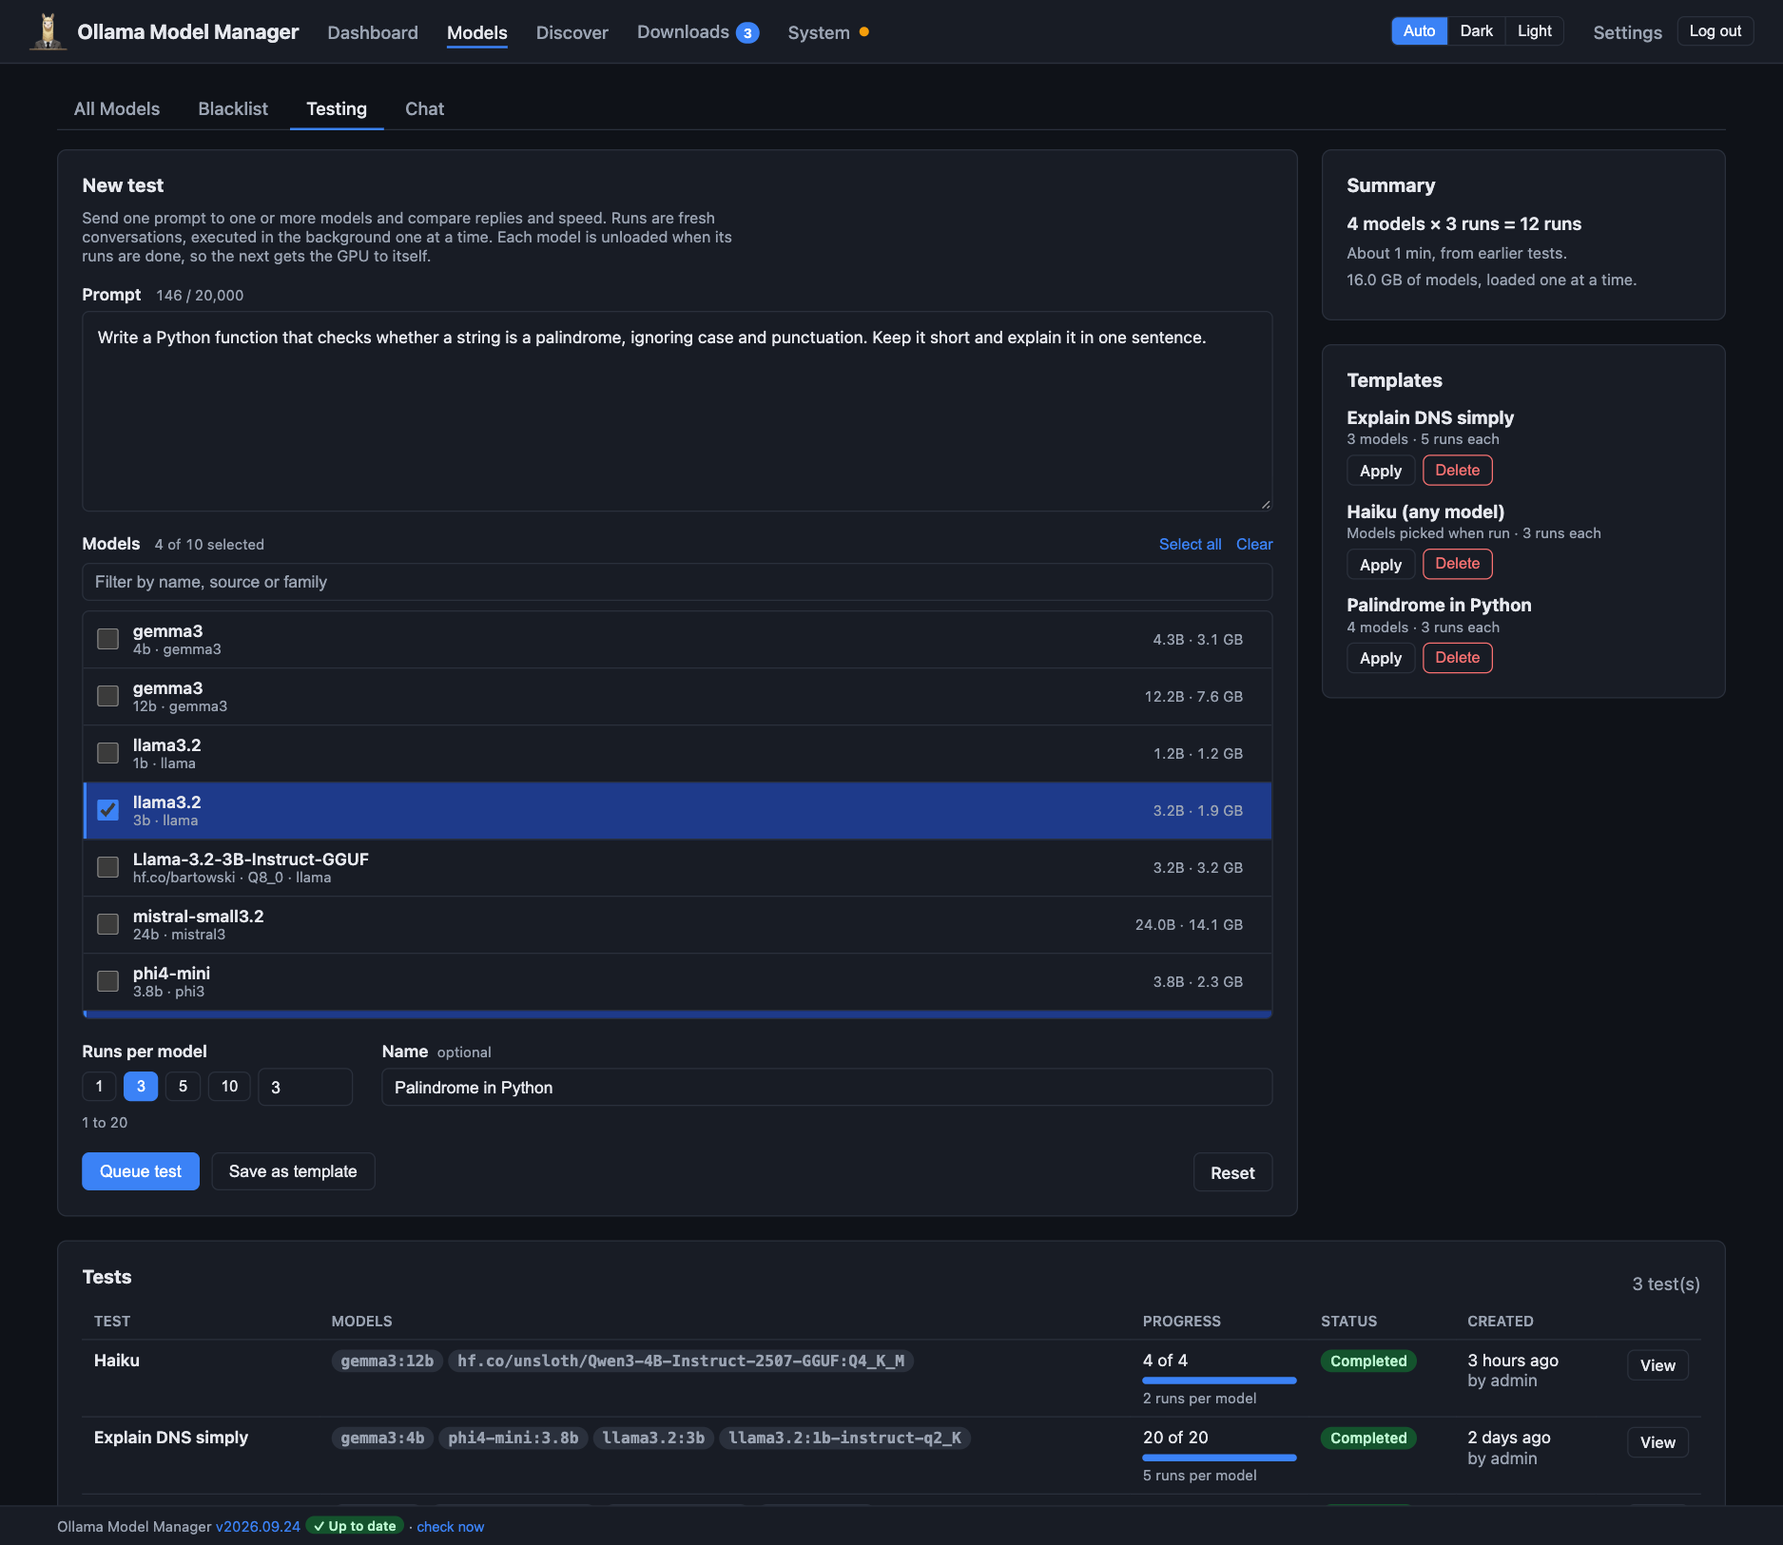
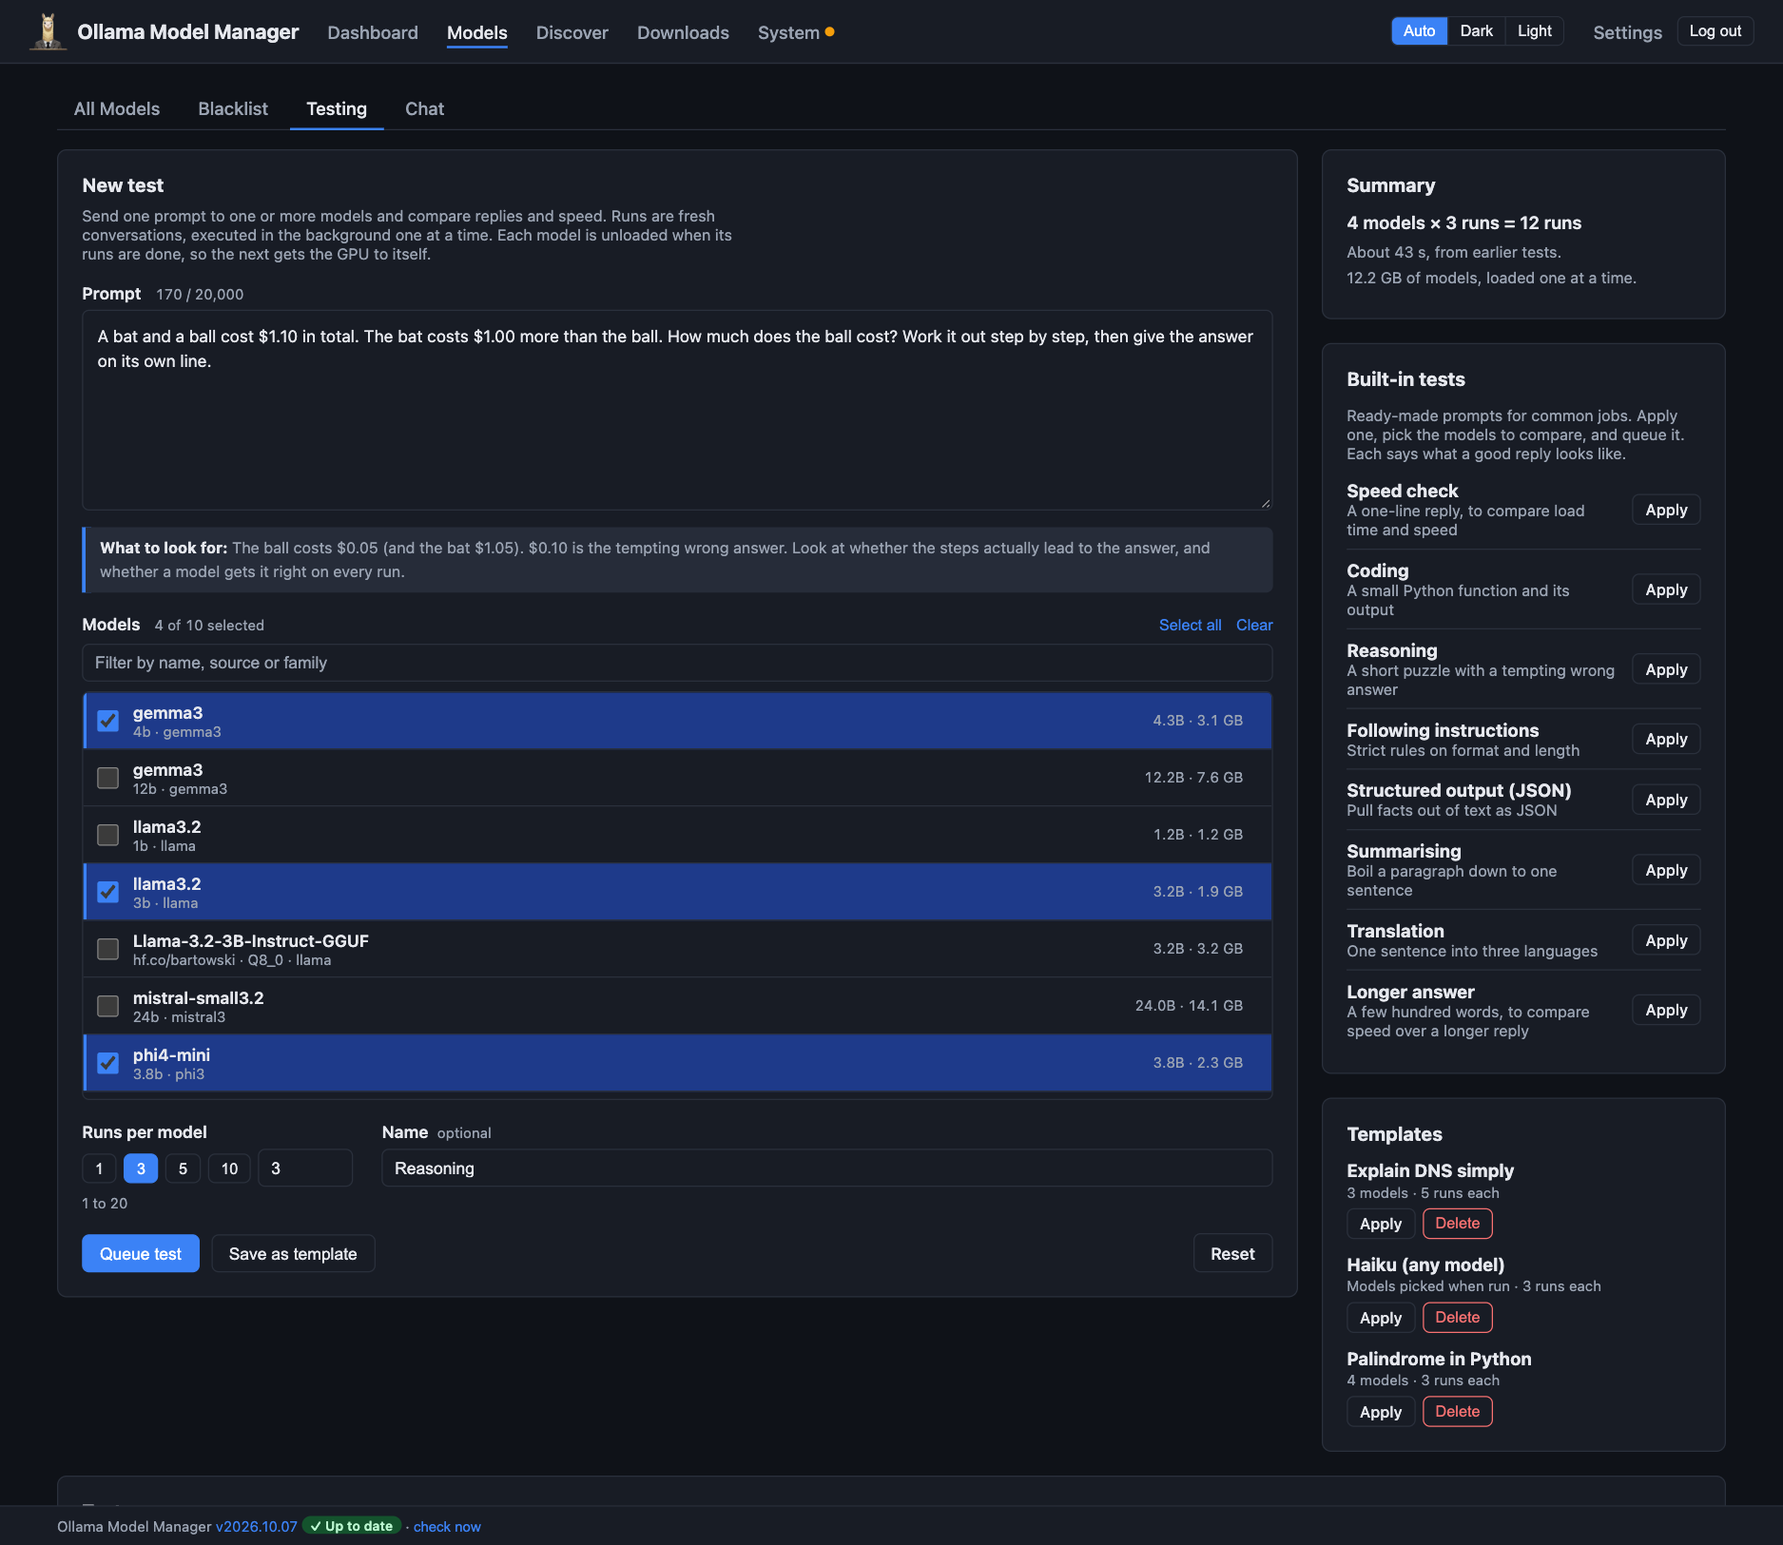
added basic built in tests to model testing that cover a number of common LLM use cases

diff --git a/internal/web/templates/tests.html b/internal/web/templates/tests.html
@@ -37,6 +37,7 @@
             <span class="muted tnum" data-prompt-count aria-live="polite">{{len .Form.Prompt}} / {{count .MaxPrompt}}</span>
           </div>
           <textarea id="t-prompt" name="prompt" rows="7" maxlength="{{.MaxPrompt}}" required placeholder="e.g. Write a Python function that checks whether a string is a palindrome.">{{.Form.Prompt}}</textarea>
+          {{with .LookFor}}<p class="test-lookfor"><strong>What to look for:</strong> {{.LookFor}}</p>{{end}}
         </div>
 
         <fieldset class="test-models" aria-labelledby="models-label">
@@ -103,6 +104,18 @@
         <ul class="test-sum-warn" data-sum-warn></ul>
       </div>
       {{end}}
+      <div class="panel">
+        <h2>Built-in tests</h2>
+        <p class="muted test-builtin-intro">Ready-made prompts for common jobs. Apply one, pick the models to compare, and queue it. Each says what a good reply looks like.</p>
+        <ul class="test-builtins">
+          {{range .Builtins}}
+          <li>
+            <div><strong class="test-tpl-name">{{.Name}}</strong><div class="muted">{{.About}}</div></div>
+            <a class="btn secondary small" href="/models/testing?builtin={{.Slug}}" title="Fill the New test form in with this test ({{.Repeats}} runs per model), to pick the models and queue it">Apply</a>
+          </li>
+          {{end}}
+        </ul>
+      </div>
       <div class="panel">
         <h2>Templates</h2>
         {{with .Templates}}

diff --git a/internal/web/templates/layout.html b/internal/web/templates/layout.html
@@ -613,6 +613,15 @@
   .disc-tag-table td.mono .disc-quant { white-space: normal; max-width: 72ch; line-height: 1.4; margin-top: 2px;
     font-family: -apple-system, BlinkMacSystemFont, "Segoe UI", Roboto, sans-serif; }
   .disc-quant-help { margin: 4px 0 6px; font-size: 13px; }
+  /* A built-in test's "What to look for", under its prompt. */
+  .test-lookfor { margin: 8px 0 0; padding: 8px 12px; font-size: 13px; line-height: 1.5; color: var(--muted);
+    border-left: 3px solid var(--accent); background: var(--code-bg); border-radius: 0 6px 6px 0; }
+  .test-lookfor strong { color: var(--text); }
+  .test-builtin-intro { font-size: 13px; margin: 0 0 6px; }
+  .test-builtins { list-style: none; margin: 0; padding: 0; }
+  .test-builtins li { display: flex; align-items: center; justify-content: space-between; gap: 12px; padding: 8px 0; }
+  .test-builtins li + li { border-top: 1px solid var(--border); }
+  .test-builtins .muted { font-size: 13px; }
   .quant-guide p, .quant-guide li { font-size: 14px; line-height: 1.5; }
   .quant-guide ul { margin: 0 0 12px; padding-left: 20px; }
   .quant-guide h3 { font-size: 15px; margin: 18px 0 6px; }

diff --git a/internal/web/templates/test_detail.html b/internal/web/templates/test_detail.html
@@ -63,6 +63,7 @@
     </dl>
     <h3 class="test-h3">Prompt</h3>
     <pre class="test-text">{{.Prompt}}</pre>
+    {{with $.LookFor}}<p class="test-lookfor"><strong>What to look for</strong> (this is the built-in test {{.Name}}): {{.LookFor}}</p>{{end}}
   </div>
 {{end}}
 

diff --git a/internal/web/builtin_tests.go b/internal/web/builtin_tests.go
@@ -1,0 +1,87 @@
+package web
+
+// builtinTest is a ready-made model test: a prompt for one kind of job, to
+// run against whichever models are picked (the Testing tab's "Built-in
+// tests"). Replies are judged by reading them, so each says what a good one
+// looks like.
+type builtinTest struct {
+	Slug    string // for ?builtin=
+	Name    string
+	About   string // what it checks, in a line
+	Prompt  string
+	Repeats int
+	LookFor string // what a good reply looks like, for judging the results
+}
+
+// builtinTests are the Testing tab's ready-made tests, in the order shown.
+var builtinTests = []builtinTest{
+	{
+		Slug: "speed", Name: "Speed check", Repeats: 5,
+		About:   "A one-line reply, to compare load time and speed",
+		Prompt:  "Introduce yourself in one short sentence.",
+		LookFor: "Nothing to judge in the reply: compare the Load, Time and Tokens/s columns. The first run includes loading the model; the others show how quickly it answers once it's loaded.",
+	},
+	{
+		Slug: "coding", Name: "Coding", Repeats: 3,
+		About:  "A small Python function and its output",
+		Prompt: "Write a Python function fizzbuzz(n) that returns a list of strings for the numbers 1 to n: \"Fizz\" for multiples of 3, \"Buzz\" for multiples of 5, \"FizzBuzz\" for multiples of both, and the number itself otherwise. Then show what fizzbuzz(15) returns. Keep any explanation to two sentences.",
+		LookFor: "Working code, and the right list for 15: 1, 2, Fizz, 4, Buzz, Fizz, 7, 8, Fizz, Buzz, 11, Fizz, 13, 14, FizzBuzz. Check it tests for 15 (or both 3 and 5) before 3 and 5 on their own, and that the explanation stays short.",
+	},
+	{
+		Slug: "reasoning", Name: "Reasoning", Repeats: 3,
+		About:  "A short puzzle with a tempting wrong answer",
+		Prompt: "A bat and a ball cost $1.10 in total. The bat costs $1.00 more than the ball. How much does the ball cost? Work it out step by step, then give the answer on its own line.",
+		LookFor: "The ball costs $0.05 (and the bat $1.05). $0.10 is the tempting wrong answer. Look at whether the steps actually lead to the answer, and whether a model gets it right on every run.",
+	},
+	{
+		Slug: "instructions", Name: "Following instructions", Repeats: 3,
+		About:  "Strict rules on format and length",
+		Prompt: "Write exactly three bullet points explaining why the sky is blue. Each bullet must be fewer than 12 words. Write nothing before or after the bullets.",
+		LookFor: "Exactly three bullets, each under 12 words, and nothing else: no heading, introduction or closing line. Many models add a friendly sentence anyway.",
+	},
+	{
+		Slug: "json", Name: "Structured output (JSON)", Repeats: 3,
+		About:  "Pull facts out of text as JSON",
+		Prompt: "List the people in this text as a JSON array of objects, each with \"name\" (a string) and \"age\" (a number). Reply with the JSON only, without a code block or any other text.\n\nText: Maria, who is 34, went to visit her brother Tom, 29, and their grandmother Edith, who turned 81 last week.",
+		LookFor: "Valid JSON and nothing else: [{\"name\": \"Maria\", \"age\": 34}, {\"name\": \"Tom\", \"age\": 29}, {\"name\": \"Edith\", \"age\": 81}]. Ages should be numbers, not strings, and there should be no code block around it. That matters if you'll feed replies to a program.",
+	},
+	{
+		Slug: "summary", Name: "Summarising", Repeats: 3,
+		About:  "Boil a paragraph down to one sentence",
+		Prompt: "Summarise this in one sentence of no more than 25 words.\n\nThe town council has approved a plan to close the high street to cars on Saturdays from June to September. Shops will be allowed to put tables and displays on the road, and the council will run free buses from the edge of town. Some traders worry that customers who drive in from nearby villages will stop coming, so the council has agreed to review the scheme in October, using footfall figures and a survey of businesses, before deciding whether to make it permanent.",
+		LookFor: "One sentence, 25 words or fewer, that keeps the main points: Saturday closures to cars for the summer, and a review in October before it's made permanent. Watch for details that aren't in the text.",
+	},
+	{
+		Slug: "translation", Name: "Translation", Repeats: 3,
+		About:  "One sentence into three languages",
+		Prompt: "Translate this into French, Spanish and German, each on its own line starting with the language's name:\n\nThe meeting has moved to Thursday at 3pm; please bring the latest sales figures.",
+		LookFor: "Three natural translations, each labelled, with the day, time and \"sales figures\" all kept. If you speak one of the languages, check it reads naturally rather than word for word.",
+	},
+	{
+		Slug: "long", Name: "Longer answer", Repeats: 3,
+		About:  "A few hundred words, to compare speed over a longer reply",
+		Prompt: "Explain how a refrigerator keeps food cold, in about 300 words, for a curious 12-year-old.",
+		LookFor: "A clear, accurate explanation (a fluid that takes heat away as it evaporates inside, and gives it out at the back) at about the right length and level. Tokens/s over a longer reply is a fairer measure of speed than a short one.",
+	},
+}
+
+// builtinTestBySlug is the built-in test with this slug, or nil.
+func builtinTestBySlug(slug string) *builtinTest {
+	for i := range builtinTests {
+		if builtinTests[i].Slug == slug {
+			return &builtinTests[i]
+		}
+	}
+	return nil
+}
+
+// builtinTestFor is the built-in test a test was run from (its prompt is
+// the same), or nil, so its results page can say what to look for.
+func builtinTestFor(prompt string) *builtinTest {
+	for i := range builtinTests {
+		if builtinTests[i].Prompt == prompt {
+			return &builtinTests[i]
+		}
+	}
+	return nil
+}

diff --git a/internal/web/tests_test.go b/internal/web/tests_test.go
@@ -318,3 +318,55 @@ func TestAddModelInfo(t *testing.T) {
 		t.Errorf("a model that's since been deleted has no details: %+v", summary[2])
 	}
 }
+
+func TestBuiltinTestsAreValid(t *testing.T) {
+	seen := map[string]bool{}
+	for _, bt := range builtinTests {
+		if bt.Slug == "" || seen[bt.Slug] || bt.Name == "" || bt.About == "" || bt.Prompt == "" || bt.LookFor == "" {
+			t.Errorf("built-in test incomplete or a duplicate: %+v", bt)
+		}
+		seen[bt.Slug] = true
+		if len([]rune(bt.Prompt)) > testMaxPrompt || bt.Repeats < 1 || bt.Repeats > testMaxRepeats || len([]rune(bt.Name)) > testMaxName {
+			t.Errorf("%s: outside the form's limits", bt.Slug)
+		}
+		if builtinTestBySlug(bt.Slug) == nil || builtinTestFor(bt.Prompt).Slug != bt.Slug {
+			t.Errorf("%s: can't be looked up", bt.Slug)
+		}
+	}
+}
+
+func TestBuiltinTestApply(t *testing.T) {
+	h := newTestServer(t, fakeOllama(t, 1).URL)
+	bt := builtinTestBySlug("reasoning")
+
+	page := get(h, "/models/testing", false).Body.String()
+	for _, want := range []string{"<h2>Built-in tests</h2>", `href="/models/testing?builtin=reasoning"`, "Structured output (JSON)"} {
+		if !strings.Contains(page, want) {
+			t.Errorf("testing page missing %q", want)
+		}
+	}
+	if strings.Contains(page, `class="test-lookfor"`) {
+		t.Error("an empty form has nothing to look for")
+	}
+
+	// Applying it fills the form in, keeping a model already picked.
+	form := get(h, "/models/testing?builtin=reasoning&model=user/custom:v1", false).Body.String()
+	for _, want := range []string{bt.Prompt + "</textarea>", `value="user/custom:v1" checked`, "Filled in from the built-in test Reasoning",
+		`<p class="test-lookfor"><strong>What to look for:</strong> The ball costs $0.05`} {
+		if !strings.Contains(form, want) {
+			t.Errorf("applied form missing %q", want)
+		}
+	}
+	if body := get(h, "/models/testing?builtin=nope", false).Body.String(); strings.Contains(body, "Filled in from") {
+		t.Error("an unknown built-in test shouldn't fill anything in")
+	}
+
+	// A test run from it says what to look for on its page.
+	id, err := testStore.CreateModelTest(t.Context(), bt.Name, bt.Prompt, []string{"user/custom:v1"}, 1, "admin")
+	if err != nil {
+		t.Fatal(err)
+	}
+	if body := get(h, "/models/testing/"+strconv.FormatInt(id, 10), false).Body.String(); !strings.Contains(body, "(this is the built-in test Reasoning): The ball costs $0.05") {
+		t.Error("the results page should say what to look for")
+	}
+}

diff --git a/internal/web/handlers_tests.go b/internal/web/handlers_tests.go
@@ -105,7 +105,11 @@ func (s *Server) handleTests(w http.ResponseWriter, r *http.Request) {
 		form.Name = string([]rune(form.Name)[:testMaxName])
 	}
 	var notice string
-	if id, err := strconv.ParseInt(q.Get("template"), 10, 64); err == nil {
+	if bt := builtinTestBySlug(q.Get("builtin")); bt != nil {
+		// Models ticked already (?model=) stay ticked: they're the ones to compare.
+		form = testForm{Name: bt.Name, Prompt: bt.Prompt, Models: q["model"], Repeats: bt.Repeats}
+		notice = "Filled in from the built-in test " + bt.Name + ". Pick the models to compare, then queue it."
+	} else if id, err := strconv.ParseInt(q.Get("template"), 10, 64); err == nil {
 		switch t, err := s.st.GetModelTestTemplate(r.Context(), id); {
 		case err != nil:
 			s.log.Error("read model test template failed", "error", err)
@@ -122,9 +126,13 @@ func (s *Server) handleTests(w http.ResponseWriter, r *http.Request) {
 
 func (s *Server) renderTests(w http.ResponseWriter, r *http.Request, form testForm, formErr, notice string, status int) {
 	q := r.URL.Query()
-	data := map[string]any{"Form": form, "FormError": formErr, "Notice": notice, "Deleted": q.Get("deleted"),
+	data := map[string]any{"Form": form, "FormError": formErr, "Notice": notice, "Deleted": q.Get("deleted"), "Builtins": builtinTests,
 		"TemplateDeleted": q.Get("template_deleted"), "MaxModels": testMaxModels, "MaxRepeats": testMaxRepeats,
 		"DefaultRepeats": testDefaultRepeats, "MaxPrompt": testMaxPrompt, "Presets": []int{1, 3, 5, 10}}
+	// A built-in test's prompt says what to look for in its replies.
+	if bt := builtinTestFor(form.Prompt); bt != nil {
+		data["LookFor"] = bt
+	}
 	if all, err := s.ol.List(r.Context()); err != nil {
 		s.log.Error("list models failed", "error", err)
 		data["Error"] = err.Error()
@@ -363,7 +371,8 @@ func (s *Server) handleTestDetail(w http.ResponseWriter, r *http.Request) {
 	}
 	q := r.URL.Query()
 	summary := summarise(runs)
-	data := map[string]any{"Test": t, "Summary": summary, "Cancelled": q.Get("cancelled") != "", "Queued": q.Get("queued") != ""}
+	data := map[string]any{"Test": t, "Summary": summary, "Cancelled": q.Get("cancelled") != "", "Queued": q.Get("queued") != "",
+		"LookFor": builtinTestFor(t.Prompt)}
 	all, err := s.ol.List(r.Context())
 	if err != nil {
 		s.log.Error("list models failed", "error", err)

diff --git a/docs/testing.md b/docs/testing.md
@@ -7,6 +7,7 @@ and eyeballing the answers. **Models → Testing** does it for you: it sends one
 each, and keeps every reply with its timings, so you can compare their speed and output side by side.
 
 - [Creating a test](#creating-a-test)
+- [Built-in tests](#built-in-tests)
 - [Templates](#templates)
 - [How a test runs](#how-a-test-runs)
 - [Reading the results](#reading-the-results)
@@ -14,7 +15,7 @@ each, and keeps every reply with its timings, so you can compare their speed and
 
 ## Creating a test
 
-![The New test form, filled in from a template, with the Summary and Templates alongside](images/testing.png)
+![The New test form, filled in from the built-in Reasoning test with its note on what to look for, and the Summary, Built-in tests and Templates alongside](images/testing.png)
 
 The **New test** form has:
 
@@ -34,6 +35,26 @@ The **Summary** beside the form shows what you're about to queue: models × runs
 (from how long those models took in earlier tests), the total size of the models, and a warning for any that won't fit
 in VRAM. **Queue test** stays disabled until you've picked a model and written a prompt; hover over it to see what's
 missing. **Reset** clears the form.
+
+## Built-in tests
+
+**Built-in tests**, beside the form, are ready-made prompts for common jobs, so you can compare models without writing
+one. **Apply** fills the form in with one; pick the models to compare and queue it.
+
+| Test | What it checks |
+|---|---|
+| **Speed check** | A one-line reply, run 5 times: compare load time and tokens/s, not the reply. |
+| **Coding** | A small Python function (FizzBuzz) and its output. |
+| **Reasoning** | A short puzzle with a tempting wrong answer. |
+| **Following instructions** | Strict rules on format and length: exactly three short bullets, nothing else. |
+| **Structured output (JSON)** | Pulling facts out of text as JSON only, as a program would need. |
+| **Summarising** | A paragraph boiled down to one sentence of 25 words or fewer. |
+| **Translation** | One sentence into French, Spanish and German. |
+| **Longer answer** | About 300 words, for a fairer measure of speed than a short reply. |
+
+Replies are judged by reading them, so each built-in test says **what to look for**: the right answer (the ball in the
+puzzle costs $0.05, not the $0.10 many models say), the format it should be in, or the mistakes models often make. The
+note shows under the prompt when you apply the test, and again on the test's results page.
 
 ## Templates
 

diff --git a/README.md b/README.md
@@ -78,9 +78,11 @@ models.
 
 ### Model testing
 Send one prompt to several models, several times each, and compare them: tokens per second, reply length, response time
-and load time beside each model's parameters, quantisation, size and context, plus every reply to read side by side. Tests run in the background, one model at a time, unloading each
-when it's done so the next gets the GPU to itself. Save a prompt, models and runs as a **template** to run the same
-comparison again later.
+and load time beside each model's parameters, quantisation, size and context, plus every reply to read side by side.
+Tests run in the background, one model at a time, unloading each when it's done so the next gets the GPU to itself.
+Start from a **built-in test** (speed, coding, reasoning, following instructions, JSON output, summarising, translation
+or a longer answer), each with a note on what a good reply looks like, or save your own prompt, models and runs as a
+**template** to run the same comparison again later.
 
 ![A test's results: a comparison table of four models' parameters, quantisation, size, context, speed and times (two of them quantisations of qwen3:8b), and the first run's reply, with its code, list and table](docs/images/test-results.png)
 
